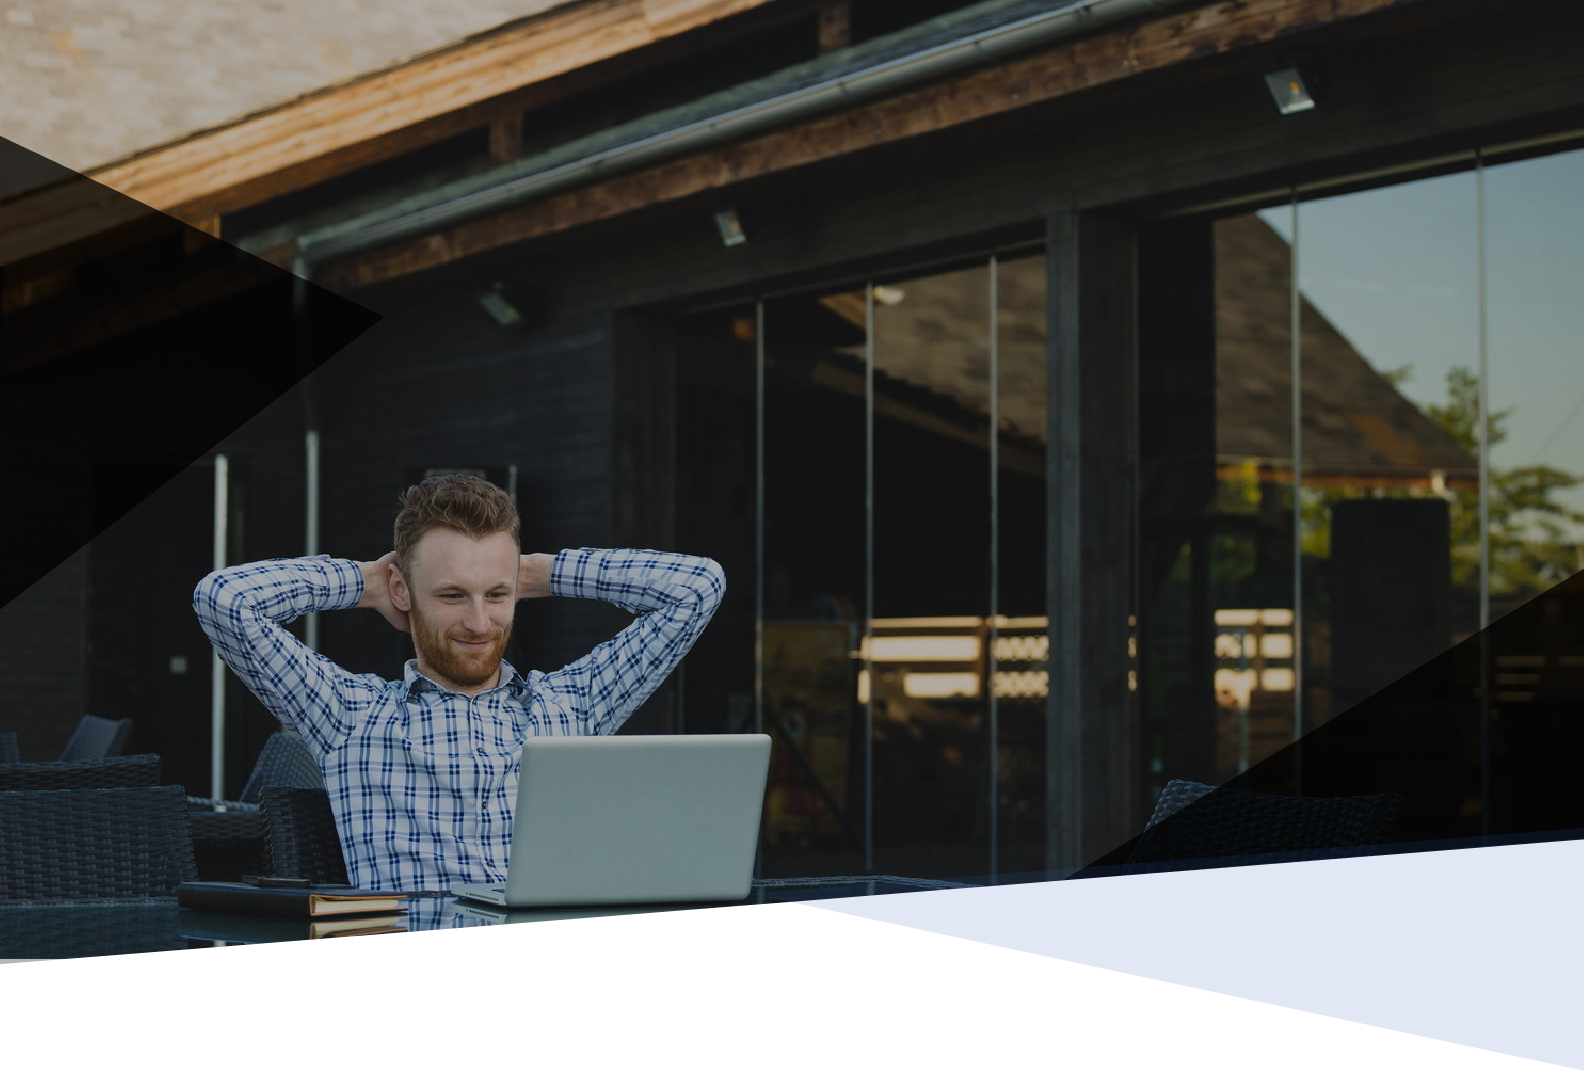
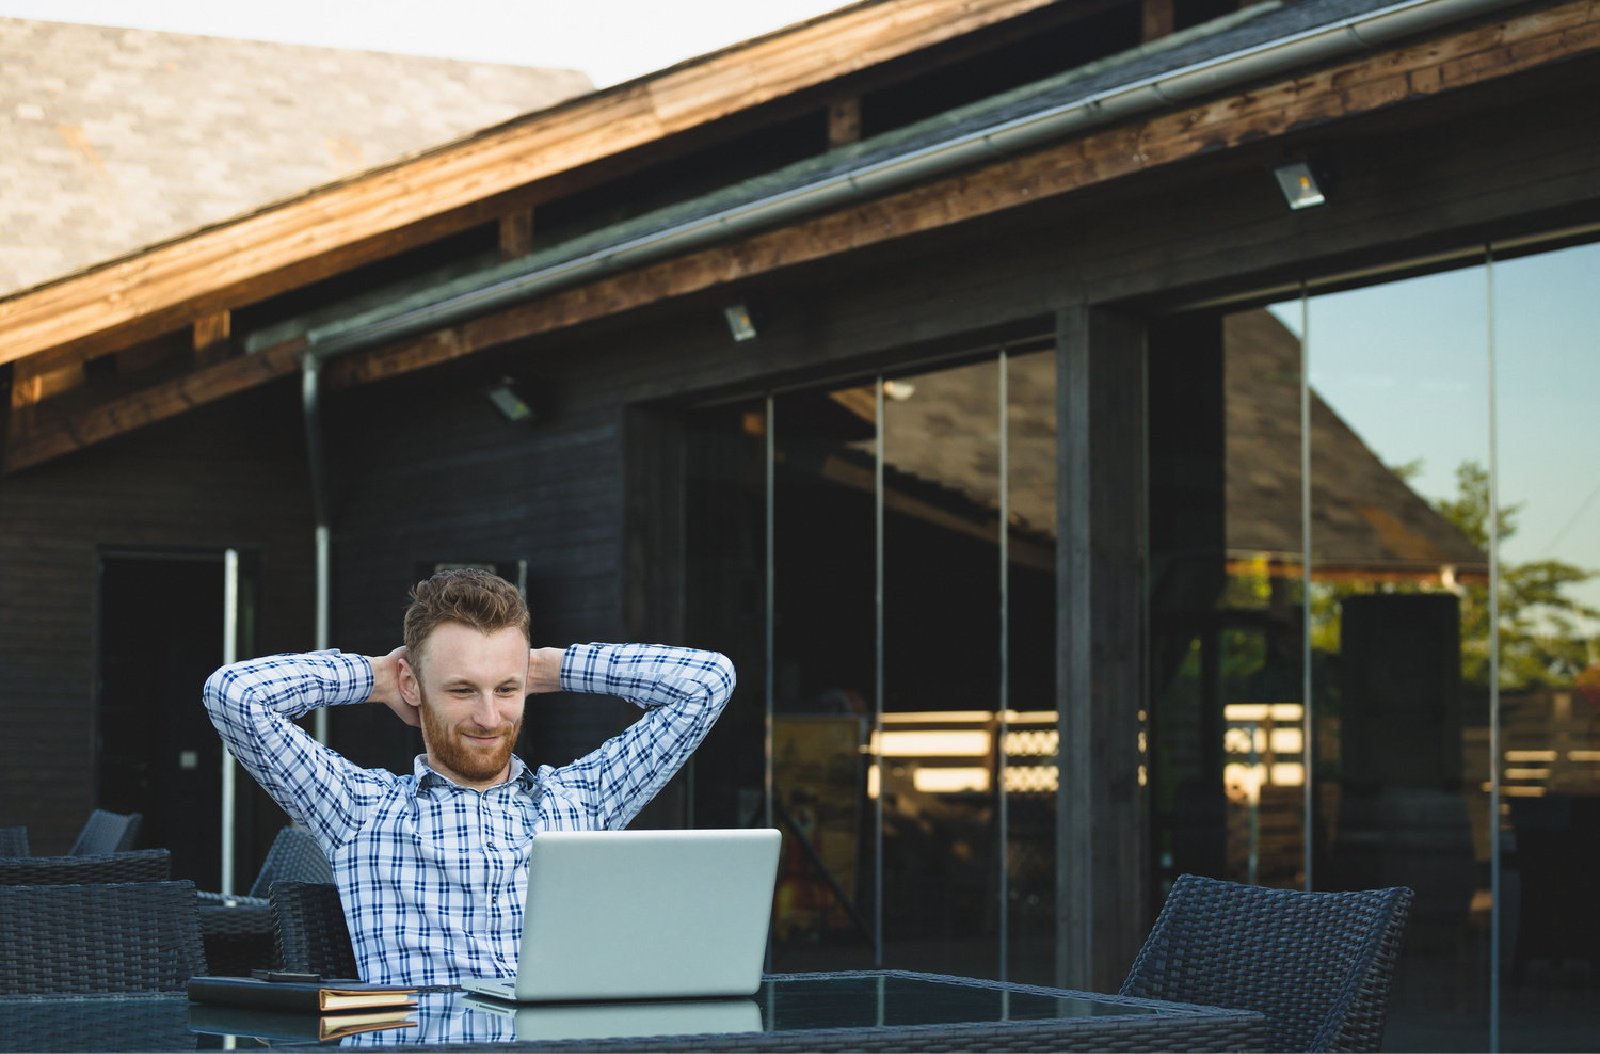
Home page design done

diff --git a/resources/assets/sass/components/_hero.scss b/resources/assets/sass/components/_hero.scss
@@ -32,9 +32,12 @@
   }
 
   &.hero-homepage {
-    background-image: url('/images/home/hero-homepage.png');
     padding: 200px 0 0 0 ;
     background-color: #fff;
+
+    background-image: url('/images/home/hero-homepage-bottom.png'), url('/images/home/hero-homepage.png');
+    background-position: bottom, center;
+    background-size: contain,cover;
     & * {
       text-align: left;
     }

diff --git a/public/assets/css/main.css b/public/assets/css/main.css
@@ -24443,9 +24443,11 @@ a:hover {
 }
 
 .hero.hero-homepage {
-  background-image: url("/images/home/hero-homepage.png");
   padding: 200px 0 0 0;
   background-color: #fff;
+  background-image: url("/images/home/hero-homepage-bottom.png"), url("/images/home/hero-homepage.png");
+  background-position: bottom, center;
+  background-size: contain,cover;
 }
 
 .hero.hero-homepage * {

diff --git a/public/build/assets/css/main-0656ddbcd4.css b/public/build/assets/css/main-0656ddbcd4.css
@@ -24443,9 +24443,11 @@ a:hover {
 }
 
 .hero.hero-homepage {
-  background-image: url("/images/home/hero-homepage.png");
   padding: 200px 0 0 0;
   background-color: #fff;
+  background-image: url("/images/home/hero-homepage-bottom.png"), url("/images/home/hero-homepage.png");
+  background-position: bottom, center;
+  background-size: contain,cover;
 }
 
 .hero.hero-homepage * {
